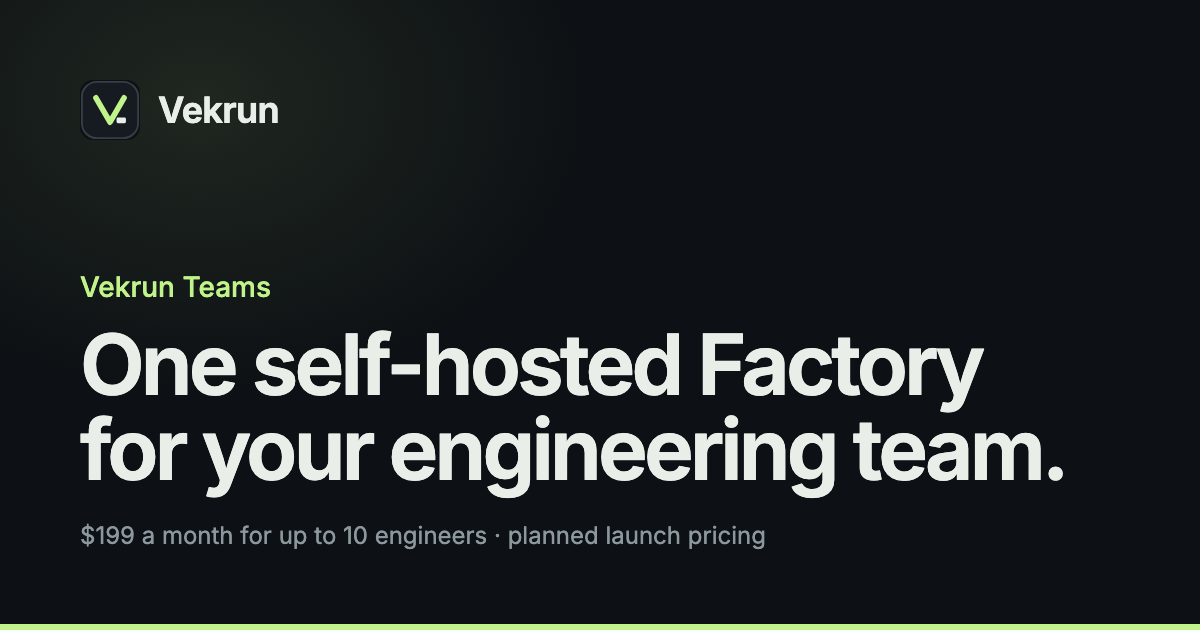
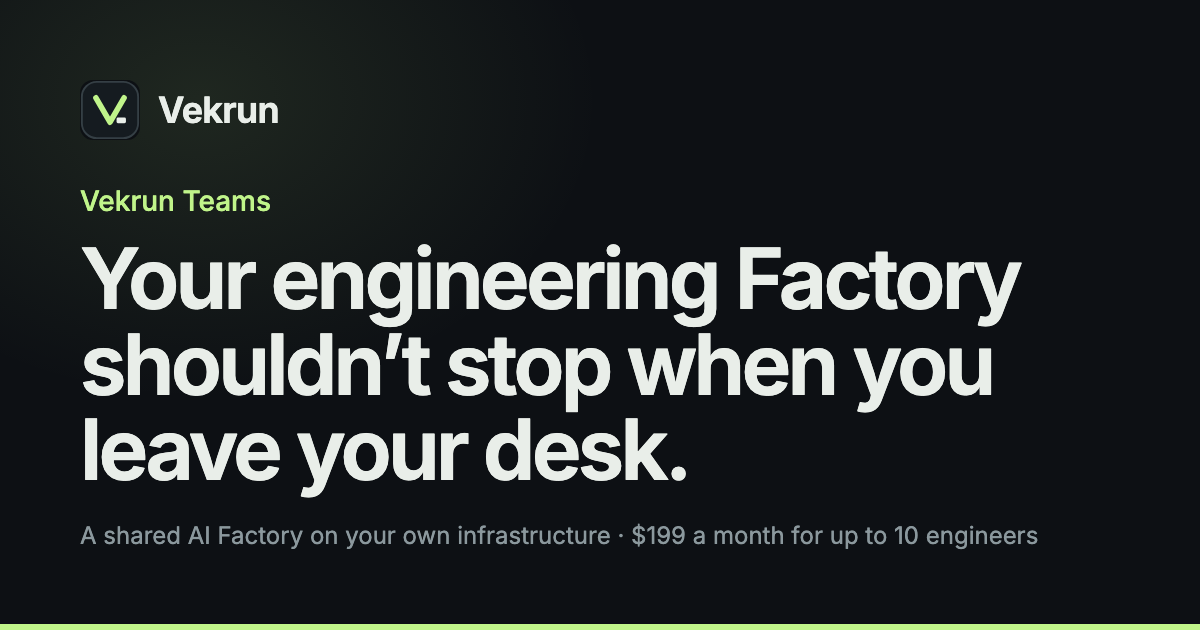
Make Teams Remote Factory the case for Teams, and give every page a way in
Teams page now leads with "Your engineering Factory shouldn't stop when you
leave your desk": a Remote Factory diagram (people anywhere, one Coordinator
and build hosts on your infrastructure), six business reasons to own a shared
Factory, the shared dashboard, pricing and a shorter FAQ.

Homepage: the "Less coordinating" section that restated the problem is gone,
the Before & After pairs no longer repeat Council and verification (they now
cover multi-project work and Engineering Memory), and a Teams section
introduces Remote Factory before the plans. Plan cards say where each
edition runs.

Every content page ends with the same two paths, Get Vekrun Personal and
Explore Vekrun Teams, from site.ts, with availability stated. There is no
signup until a real destination exists. Pricing is unchanged ($199 for up to
10 engineers, +$10 each).

Light theme ok/warn colours darkened for WCAG AA; accessibility tests now
run in both themes.

Changed region(s): [[0.0617, 0.3921, 0.8942, 0.8143], [0.0617, 0.8143, 0.8633, 0.8746], [0.0617, 0.3016, 0.2467, 0.3317]]

diff --git a/tests/e2e/site.spec.ts b/tests/e2e/site.spec.ts
@@ -30,9 +30,10 @@ test.describe('every page', () => {
 });
 
 test.describe('accessibility', () => {
-  for (const path of pages) {
-    test(`${path} has no WCAG A or AA violations`, async ({ page }) => {
+  for (const path of pages) for (const theme of ['dark', 'light'] as const) {
+    test(`${path} has no WCAG A or AA violations in the ${theme} theme`, async ({ page }) => {
       await page.emulateMedia({ reducedMotion: 'reduce' });
+      await page.addInitScript((t) => localStorage.setItem('vekrun-theme', t), theme);
       await page.goto(path);
       await page.evaluate(() => document.querySelectorAll('.reveal,.reveal-group').forEach((e) => e.classList.add('is-visible')));
       const { violations } = await new AxeBuilder({ page }).withTags(['wcag2a', 'wcag2aa', 'wcag21a', 'wcag21aa']).analyze();
@@ -73,6 +74,50 @@ test.describe('homepage', () => {
     await expect(f).toHaveAttribute('data-demo', 'paused');
     await f.locator('[data-demo-play]').click();
     await expect(f).toHaveAttribute('data-demo', 'playing');
+  });
+});
+
+test.describe('conversion paths', () => {
+  for (const path of ['/product/', '/benefits/', '/before-and-after/', '/integrations/']) {
+    test(`${path} ends with the Personal and Teams paths`, async ({ page }) => {
+      await page.goto(path);
+      const next = page.locator('section[aria-labelledby="next-title"]');
+      await expect(next.getByRole('link', { name: 'Get Vekrun Personal' })).toHaveAttribute('href', '/download/');
+      await expect(next.getByRole('link', { name: 'Explore Vekrun Teams' })).toHaveAttribute('href', '/teams/');
+      await expect(next).toContainText('isn’t on sale yet');
+    });
+  }
+
+  test('the homepage plans lead to Personal and Teams, and every CTA destination resolves', async ({ page }) => {
+    await page.goto('/');
+    const plans = page.locator('section[aria-labelledby="plans-title"]');
+    await expect(plans.getByRole('link', { name: 'Get Vekrun Personal' })).toHaveAttribute('href', '/download/');
+    await expect(plans.getByRole('link', { name: 'Explore Vekrun Teams' })).toHaveAttribute('href', '/teams/');
+    for (const href of await page.locator('main a.btn').evaluateAll((els) => els.map((e) => e.getAttribute('href')!))) {
+      if (href.startsWith('#')) continue;
+      expect((await page.request.get(href.replace(/#.*/, ''))).status(), href).toBe(200);
+    }
+  });
+});
+
+test.describe('remote factory', () => {
+  test('the homepage introduces Teams Remote Factory and links to the explanation', async ({ page }) => {
+    await page.goto('/');
+    const sec = page.locator('#teams');
+    await expect(sec.getByRole('heading', { level: 2 })).toHaveText('One Factory for the whole team, wherever they work.');
+    await expect(sec.getByRole('group', { name: 'Infrastructure your organization controls' })).toBeVisible();
+    await expect(sec.getByText('Illustrative product concept with demonstration data.')).toBeVisible();
+    await expect(sec.getByRole('link', { name: /Why teams run their own Factory/ })).toHaveAttribute('href', '/teams/#remote');
+  });
+
+  test('the Teams page leads with Remote Factory and keeps pricing honest', async ({ page }) => {
+    await page.goto('/teams/');
+    await expect(page.getByRole('heading', { level: 1 })).toHaveText('Your engineering Factory shouldn’t stop when you leave your desk.');
+    await expect(page.locator('#remote')).toContainText('Nothing leaves your control');
+    await expect(page.getByText('Code, credentials and execution policies stay here.')).toBeVisible();
+    await expect(page.locator('#pricing')).toContainText('Runs on your servers. Your team works with it from anywhere.');
+    await expect(page.getByText(/enterprise/i).first()).toBeAttached();
+    await expect(page.locator('main')).not.toContainText(/\$19\b/);
   });
 });
 

diff --git a/tests/unit/data.test.ts b/tests/unit/data.test.ts
@@ -4,7 +4,7 @@
  */
 import { describe, expect, it } from 'vitest';
 import { existsSync } from 'node:fs';
-import { footerColumns, primaryNav, primaryCta, productSections, site, pricing, teams, personal, teamsMonthly } from '@/data/site';
+import { footerColumns, primaryNav, primaryCta, personalCta, teamsCta, productSections, site, pricing, teams, personal, teamsMonthly } from '@/data/site';
 import { toolGroups, platforms, allTools } from '@/data/integrations';
 import { redirects } from '../../astro.config.mjs';
 
@@ -35,6 +35,9 @@ describe('packages and pricing', () => {
   it('has exactly two packages: free Personal and self-hosted Teams with SSO included', () => {
     expect(personal.price).toBe('Free');
     expect(teams.includes.join(' ')).toMatch(/SSO/);
+    expect(teams.includes.join(' ')).toMatch(/Remote Factory/);
+    expect(personal.runsOn).toMatch(/your own computer/);
+    expect(teams.runsOn).toMatch(/your servers/);
     expect(JSON.stringify({ personal, teams })).not.toMatch(/enterprise|cloud plan|annual discount|free trial|checkout/i);
   });
 });
@@ -62,6 +65,12 @@ describe('navigation', () => {
       expect(n.href, n.label).toMatch(/^\/(.*\/)?$/);
       expect(pageExists(n.href), n.href).toBe(true);
     }
+  });
+  it('has one Personal and one Teams path, both to live pages, and no signup until a destination exists', () => {
+    expect(personalCta).toEqual({ label: 'Get Vekrun Personal', href: '/download/' });
+    expect(teamsCta).toEqual({ label: 'Explore Vekrun Teams', href: '/teams/' });
+    for (const c of [personalCta, teamsCta]) expect(pageExists(c.href), c.href).toBe(true);
+    expect(JSON.stringify({ personalCta, teamsCta, primaryCta })).not.toMatch(/waitlist|sign ?up|early access|demo/i);
   });
   it('puts Download, Security, Privacy, Licence and Contact in the footer', () => {
     expect(footerColumns.flatMap((c) => c.items).map((n) => n.label)).toEqual(expect.arrayContaining(['Download', 'Security', 'Privacy', 'Licence', 'Contact']));

diff --git a/src/data/site.ts b/src/data/site.ts
@@ -56,6 +56,7 @@ export const personal = {
   name: 'Vekrun Personal',
   price: 'Free',
   summary: 'The whole Factory on your own machine, for individual engineers.',
+  runsOn: 'Runs on your own computer.',
   includes: [
     'AI Factory across all your projects',
     'Council, Board and Inbox',
@@ -70,9 +71,11 @@ export const personal = {
 export const teams = {
   name: 'Vekrun Teams',
   href: '/teams/',
-  summary: 'One self-hosted Factory for your engineering organization.',
+  summary: 'One shared Factory for your engineering organization, on infrastructure you control.',
+  runsOn: 'Runs on your servers. Your team works with it from anywhere.',
   includes: [
     'Everything in Personal, for every engineer',
+    'Remote Factory: hand off and approve work from anywhere',
     'Shared Coordinator on your servers',
     'Shared Board, Inbox and Factory queues',
     'SSO, roles and permissions',
@@ -95,6 +98,14 @@ export const primaryNav: NavItem[] = [
 
 /** The header call to action points at the download page, which states availability plainly. */
 export const primaryCta: NavItem = { label: 'Get Vekrun', href: '/download/' };
+
+/**
+ * The two conversion paths, used wherever a page ends. There is no signup or
+ * waitlist yet (no destination exists), so both lead to pages that state
+ * availability honestly. Swap the hrefs here when a real signup exists.
+ */
+export const personalCta: NavItem = { label: 'Get Vekrun Personal', href: '/download/' };
+export const teamsCta: NavItem = { label: 'Explore Vekrun Teams', href: '/teams/' };
 
 export const footerColumns: { title: string; items: NavItem[] }[] = [
   { title: 'Vekrun', items: primaryNav },

diff --git a/src/styles/global.css b/src/styles/global.css
@@ -96,8 +96,8 @@
   --accent-ring: rgba(61, 103, 10, 0.4);
   --mint: #1f7a5a;
   --mint-soft: rgba(31, 122, 90, 0.1);
-  --ok: #3f7a12;
-  --warn: #9a6200;
+  --ok: #336410;
+  --warn: #7f5100;
   --info: #2f5fd6;
   --muted: #5a645e;
   --danger: #c3311f;
